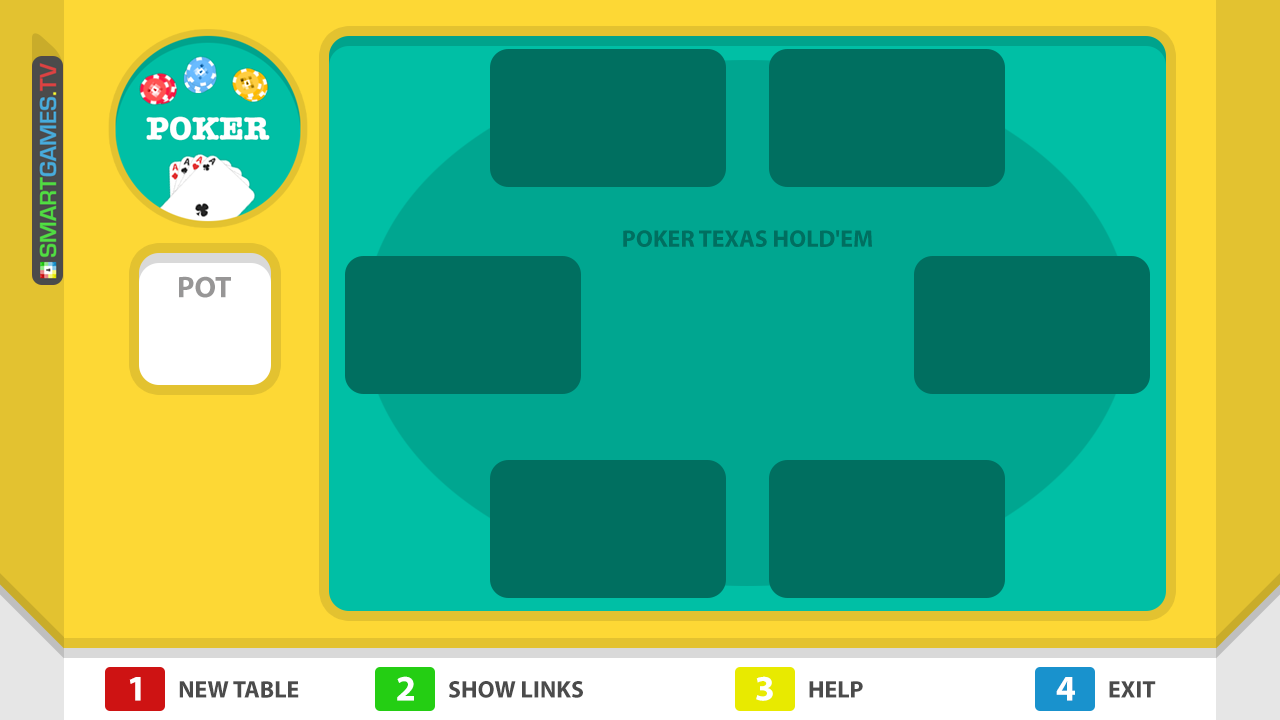
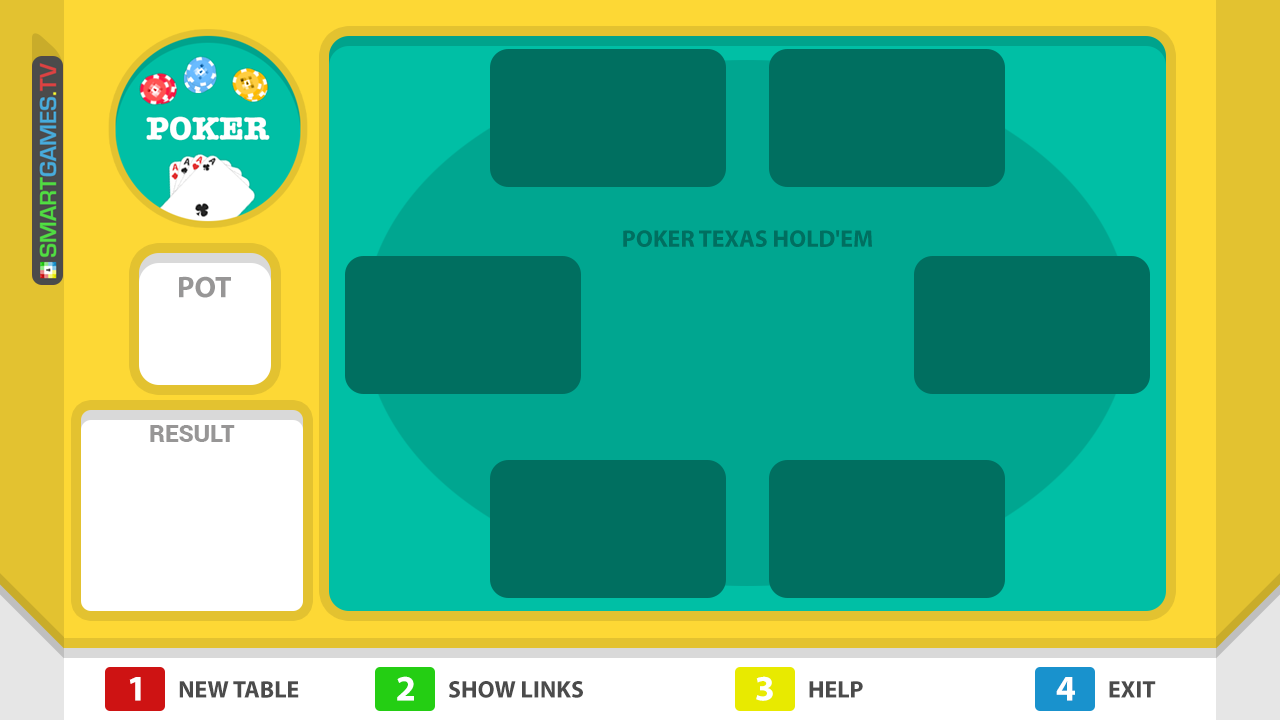
tweak background

Changed region(s): [[0.0312, 0.55, 0.25, 0.8861]]

diff --git a/public/styles/index.css b/public/styles/index.css
@@ -26,14 +26,11 @@ body
 
 #historique {
 	position:absolute;
-	top: 400px;
-	left: 72px;
+	top: 410px;
+	left: 82px;
 	height: 200px;
 	width: 220px;
 	color: #EFB756;
-	background-color: white;
-	border: 10px solid #E3C230;
-	border-radius: 20px;
 }
 
 p {

diff --git a/public/index.html b/public/index.html
@@ -166,7 +166,7 @@
 	<div id="prompt2">
 		<span id="contact">support@ngine-networks.com</span>
 	</div>
-	<h2>Result</h2>
+	<h2></h2>
 	<div id='historique'>
 		<div id='histoContent'>
 		</div>
